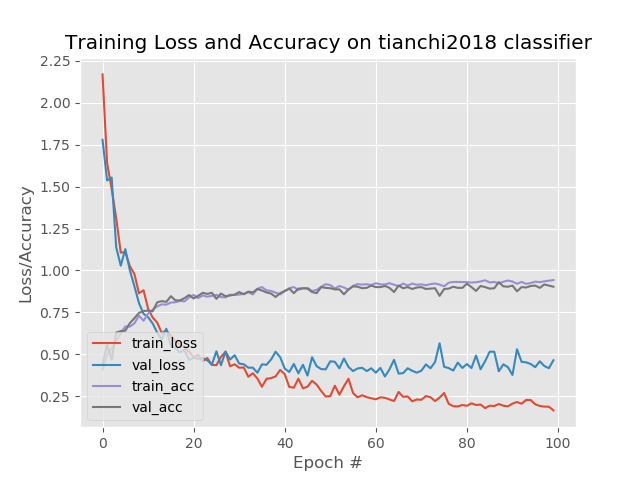
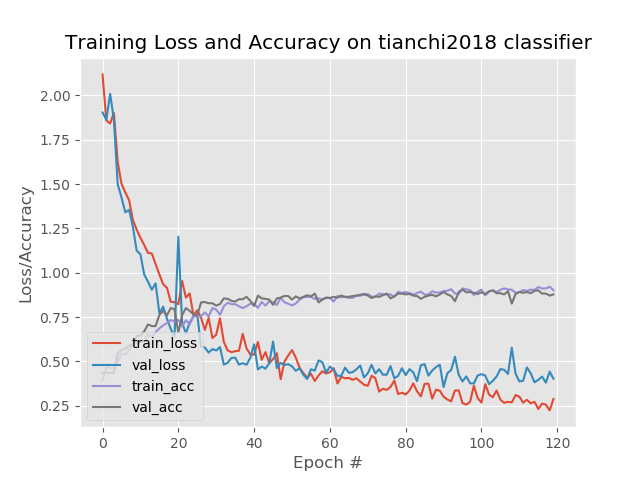
add more nn frameworks

diff --git a/src/net/vgg.py b/src/net/vgg.py
@@ -1,0 +1,56 @@
+"""
+Author: Lijunshi
+Date: 2018-9-30
+"""
+
+# import the necessary packages
+from keras.models import Sequential
+from keras.layers.convolutional import Conv2D
+from keras.layers.convolutional import MaxPooling2D
+from keras.layers.core import Activation
+from keras.layers.core import Flatten
+from keras.layers.core import Dense
+from keras.layers.core import Dropout
+from keras import backend as K
+
+
+class VGG_16:
+    @staticmethod
+    def build(width, height, depth, classes):
+        model = Sequential()
+        inputShape = (height, width, depth)
+        # if we are using "channels last", update the input shape
+        if K.image_data_format() == "channels_first":   #for tensorflow
+            inputShape = (depth, height, width)
+        model.add(Conv2D(64, (3, 3), strides=(1, 1), input_shape=inputShape, padding='same', activation='relu',
+                         kernel_initializer='uniform'))
+        model.add(Conv2D(64, (3, 3), strides=(1, 1), padding='same', activation='relu', kernel_initializer='uniform'))
+        model.add(MaxPooling2D(pool_size=(2, 2)))
+
+        model.add(Conv2D(128, (3, 3), strides=(1, 1), padding='same', activation='relu', kernel_initializer='uniform'))
+        model.add(Conv2D(128, (3, 3), strides=(1, 1), padding='same', activation='relu', kernel_initializer='uniform'))
+        model.add(MaxPooling2D(pool_size=(2, 2)))
+
+        model.add(Conv2D(256, (3, 3), strides=(1, 1), padding='same', activation='relu', kernel_initializer='uniform'))
+        model.add(Conv2D(256, (3, 3), strides=(1, 1), padding='same', activation='relu', kernel_initializer='uniform'))
+        model.add(Conv2D(256, (3, 3), strides=(1, 1), padding='same', activation='relu', kernel_initializer='uniform'))
+        model.add(MaxPooling2D(pool_size=(2, 2)))
+
+        model.add(Conv2D(512, (3, 3), strides=(1, 1), padding='same', activation='relu', kernel_initializer='uniform'))
+        model.add(Conv2D(512, (3, 3), strides=(1, 1), padding='same', activation='relu', kernel_initializer='uniform'))
+        model.add(Conv2D(512, (3, 3), strides=(1, 1), padding='same', activation='relu', kernel_initializer='uniform'))
+        model.add(MaxPooling2D(pool_size=(2, 2)))
+
+        model.add(Conv2D(512, (3, 3), strides=(1, 1), padding='same', activation='relu', kernel_initializer='uniform'))
+        model.add(Conv2D(512, (3, 3), strides=(1, 1), padding='same', activation='relu', kernel_initializer='uniform'))
+        model.add(Conv2D(512, (3, 3), strides=(1, 1), padding='same', activation='relu', kernel_initializer='uniform'))
+        model.add(MaxPooling2D(pool_size=(2, 2)))
+
+        model.add(Flatten())
+        model.add(Dense(1000, activation='relu'))
+        model.add(Dropout(0.5))
+        model.add(Dense(1000, activation='relu'))
+        model.add(Dropout(0.5))
+        model.add(Dense(classes, activation='softmax'))
+
+        return model

diff --git a/src/net/mynet.py b/src/net/mynet.py
@@ -1,0 +1,70 @@
+"""
+Author: Lijunshi
+Date: 2018-9-30
+"""
+
+# import the necessary packages
+from keras.models import Sequential
+from keras.layers.convolutional import Conv2D
+from keras.layers.convolutional import MaxPooling2D
+from keras.layers.core import Activation
+from keras.layers.core import Flatten
+from keras.layers.core import Dense
+from keras import backend as K
+from keras.layers.core import Dropout
+
+
+class MyNet:
+    @staticmethod
+    def build(width, height, depth, classes):
+        # initialize the model
+        model = Sequential()
+        inputShape = (height, width, depth)
+        # if we are using "channels last", update the input shape
+        if K.image_data_format() == "channels_first":  # for tensorflow
+            inputShape = (depth, height, width)
+        # first set of CONV => RELU => POOL layers
+        model.add(Conv2D(64, (3, 3), padding="same", input_shape=inputShape, strides=(1, 1)))
+        model.add(Activation("relu"))
+        model.add(Conv2D(64, (3, 3), padding="same", input_shape=inputShape, strides=(1, 1)))
+        model.add(Activation("relu"))
+        model.add(MaxPooling2D(pool_size=(2, 2), strides=(2, 2)))
+
+        # second set of CONV => RELU => POOL layers
+        model.add(Conv2D(128, (3, 3), padding="same", strides=(1, 1)))
+        model.add(Activation("relu"))
+        model.add(Conv2D(128, (3, 3), padding="same", strides=(1, 1)))
+        model.add(Activation("relu"))
+        model.add(MaxPooling2D(pool_size=(2, 2), strides=(2, 2)))
+
+        # second set of CONV => RELU => POOL layers
+        model.add(Conv2D(256, (3, 3), padding="same", strides=(1, 1)))
+        model.add(Activation("relu"))
+        model.add(Conv2D(256, (3, 3), padding="same", strides=(1, 1)))
+        model.add(Activation("relu"))
+        model.add(Conv2D(256, (3, 3), padding="same", strides=(1, 1)))
+        model.add(Activation("relu"))
+        model.add(MaxPooling2D(pool_size=(2, 2), strides=(2, 2)))
+
+        # second set of CONV => RELU => POOL layers
+        model.add(Conv2D(256, (3, 3), padding="same", strides=(1, 1)))
+        model.add(Activation("relu"))
+        model.add(Conv2D(256, (3, 3), padding="same", strides=(1, 1)))
+        model.add(Activation("relu"))
+        model.add(Conv2D(256, (3, 3), padding="same", strides=(1, 1)))
+        model.add(Activation("relu"))
+        model.add(MaxPooling2D(pool_size=(2, 2), strides=(2, 2)))
+        # first (and only) set of FC => RELU layers
+        model.add(Flatten())
+        model.add(Dense(1024))
+        model.add(Activation("relu"))
+        model.add(Dropout(0.5))
+        model.add(Dense(1024))
+        model.add(Activation("relu"))
+        model.add(Dropout(0.5))
+        # softmax classifier
+        model.add(Dense(classes))
+        model.add(Activation("softmax"))
+
+        # return the constructed network architecture
+        return model

diff --git a/src/net/alexnet.py b/src/net/alexnet.py
@@ -1,0 +1,40 @@
+"""
+Author: Lijunshi
+Date: 2018-9-30
+"""
+
+# import the necessary packages
+from keras.models import Sequential
+from keras.layers.convolutional import Conv2D
+from keras.layers.convolutional import MaxPooling2D
+from keras.layers.core import Activation
+from keras.layers.core import Flatten
+from keras.layers.core import Dense
+from keras.layers.core import Dropout
+from keras import backend as K
+
+
+class AlexNet:
+    @staticmethod
+    def build(width, height, depth, classes):
+        model = Sequential()
+        inputShape = (height, width, depth)
+        # if we are using "channels last", update the input shape
+        if K.image_data_format() == "channels_first":   # for theano
+            inputShape = (depth, height, width)
+        model.add(Conv2D(96, (11, 11), strides=(4, 4), input_shape=inputShape, padding='valid', activation='relu',
+                         kernel_initializer='uniform'))
+        model.add(MaxPooling2D(pool_size=(3, 3), strides=(2, 2)))
+        model.add(Conv2D(256, (5, 5), strides=(1, 1), padding='same', activation='relu', kernel_initializer='uniform'))
+        model.add(MaxPooling2D(pool_size=(3, 3), strides=(2, 2)))
+        model.add(Conv2D(384, (3, 3), strides=(1, 1), padding='same', activation='relu', kernel_initializer='uniform'))
+        model.add(Conv2D(384, (3, 3), strides=(1, 1), padding='same', activation='relu', kernel_initializer='uniform'))
+        model.add(Conv2D(256, (3, 3), strides=(1, 1), padding='same', activation='relu', kernel_initializer='uniform'))
+        model.add(MaxPooling2D(pool_size=(3, 3), strides=(2, 2)))
+        model.add(Flatten())
+        model.add(Dense(4096, activation='relu'))
+        model.add(Dropout(0.5))
+        model.add(Dense(4096, activation='relu'))
+        model.add(Dropout(0.5))
+        model.add(Dense(classes, activation='softmax'))
+        return model

diff --git a/src/train.py b/src/train.py
@@ -22,9 +22,9 @@ import cv2
 import os
 import sys
 import logging
-from net.lenet import LeNet
+from net.mynet import MyNet
 
-os.environ["CUDA_VISIBLE_DEVICES"] = "5"
+os.environ["CUDA_VISIBLE_DEVICES"] = "0"
 
 logging.basicConfig(level=logging.DEBUG)
 
@@ -48,11 +48,11 @@ def args_parse():
 
 # initialize the number of epochs to train for, initial learning rate,
 # and batch size
-EPOCHS = 100
+EPOCHS = 120
 INIT_LR = 1e-3
-BS = 128
+BS = 64
 CLASS_NUM = 12
-norm_size = 64  # image size: 256*256
+norm_size = 128  # image size: 256*256
 test_rate = 0.2
 
 def load_data(path):
@@ -110,7 +110,7 @@ def load_data(path):
 def train(aug, trainX, trainY, testX, testY, args):
     # initialize the model
     print("[INFO] compiling model...")
-    model = LeNet.build(width=norm_size, height=norm_size, depth=3, classes=CLASS_NUM)
+    model = MyNet.build(width=norm_size, height=norm_size, depth=3, classes=CLASS_NUM)
     opt = Adam(lr=INIT_LR, decay=INIT_LR / EPOCHS)
     model.compile(loss="categorical_crossentropy", optimizer=opt, metrics=["accuracy"])
 

diff --git a/src/predict.py b/src/predict.py
@@ -14,10 +14,10 @@ import cv2
 import os
 import logging
 
-os.environ["CUDA_VISIBLE_DEVICES"] = "5"
+os.environ["CUDA_VISIBLE_DEVICES"] = "0"
 logging.basicConfig(level=logging.DEBUG)
 
-norm_size = 64
+norm_size = 128
 
 def args_parse():
 # construct the argument parse and parse the arguments
